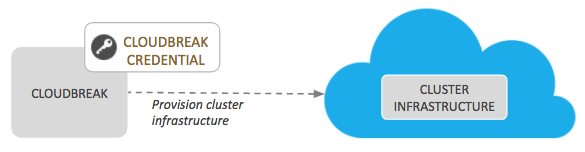
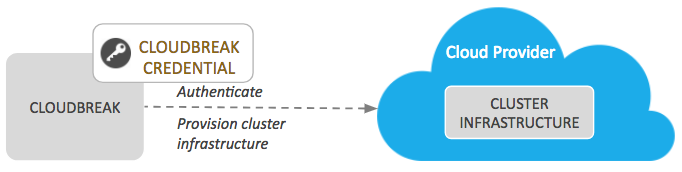
Various changes

diff --git a/docs/architecture.md b/docs/architecture.md
@@ -18,26 +18,38 @@
 
 ### Cloudbreak Application Architecture 
 
-The Cloudbreak application is a web application that communicates with the cloud provider account to create cloud resources on your behalf. Once the cloud resources are in place, Cloudbreak uses Apache Ambari to deploy and configure the cluster on cloud VMs. Once your cluster is deployed, you can use Cloudbreak to monitor and manage the cluster. 
+The Cloudbreak application is a web application which simplifies HDP cluster provisioning in the cloud. Based on your input, Cloudbreak provisions all required cloud infrastructure and then provisions an HDP cluster on your behalf within your cloud provider account.   
 
-<a href="../images/arch-app.png" target="_blank" title="click to enlarge"><img src="../images/arch-app.png" width="500" title="Cloudbreak architecture"></a> 
+<a href="../images/arch.png" target="_blank" title="click to enlarge"><img src="../images/arch.png" width="550" title="Cloudbreak architecture"></a> 
 
 Cloudbreak application is built on the foundation of cloud provider APIs and Apache Ambari:
-
-* Cloudbreak uses **Apache Ambari** to provision, manage, and monitor HDP clusters. 
-
-    Ambari **blueprints** are a declarative definition of a cluster. With a blueprint, you can specify stack, component layout, and configurations to materialize an HDP cluster instance via Ambari REST API, without having to use the Ambari cluster install wizard. 
     
-* Cloudbreak uses **cloud provider APIs** to create cloud resources required for the HDP clusters. 
+* Cloudbreak uses **cloud provider APIs** to communicate with the cloud providers. 
 
-    In order to authenticate with the cloud provider, you must create a [Cloudbreak credential](#cloudbreak-credential) for that provider. Next, you can use the create a cluster wizard in the Cloudbreak web UI (or its equivalent in the CLI) to define cloud resources which will be created for your cluster (networks, security groups, VMs and storage, and so on).  
+* Cloudbreak uses the **Cloudbreak credential** to authenticate with your cloud provider account and provision cloud resources required for the HDP clusters. 
     
+* Cloudbreak uses Apache Ambari and **Ambari blueprints** to provision, manage, and monitor HDP clusters. Ambari blueprints are a declarative definition of a cluster. With a blueprint, you can specify stack, component layout, and configurations to materialize an HDP cluster instance via Ambari REST API, without having to use the Ambari cluster install wizard.     
+    
+
+
+#### Cloudbreak Credential
+
+After launching Cloudbreak, you must create a Cloudbreak credential for each cloud provider on which you would like to provision clusters. Only after you have completed that step you can start creating clusters. 
+
+Cloudbreak credential allows Cloudbreak to authenticate with the cloud provider and create resources on your behalf. The authentication process varies depending on the cloud provider, but is typically done via assigning a specific IAM role to Cloudbreak which allows Cloudbreak to perform certain actions within your cloud provider account. To learn more, refer to [Identity Management](security.md#identity-management).  
+
+
+<a href="../images/arch-cred.png" target="_blank" title="click to enlarge"><img src="../images/arch-cred.png" width="500" title="How Cb uses Cloudbreak Credential"></a> 
+
+**Related Links**  
+[Identity Management](security.md#identity-management)  
+
 
 #### Ambari Blueprints
 
-**Ambari blueprints** are a declarative definition of a cluster. With a blueprint, you can specify stack, component layout, and configurations to materialize an HDP cluster instance via Ambari REST API, without having to use the Ambari cluster install wizard.  
+Ambari blueprints are a declarative definition of a cluster. A blueprint allows you to specify stack, component layout, and configurations to materialize an HDP cluster instance via Ambari REST API, without having to use the Ambari cluster install wizard.  
 
-Ambari blueprints are specified in JSON format. After you provide the blueprint to Cloudbreak, the host groups in the JSON will be mapped to a set of instances when starting the cluster, and the specified services and components will be installed on the corresponding nodes.
+Ambari blueprints are specified in JSON format. After you provide the blueprint to Cloudbreak, the host groups in the JSON are mapped to a set of instances when starting the cluster, and the specified services and components are installed on the corresponding nodes.
 
 Cloudbreak includes a few default blueprints and allows you to upload your own blueprints.
 
@@ -46,16 +58,3 @@ Cloudbreak includes a few default blueprints and allows you to upload your own b
 **Related Links**  
 [Blueprints](security.md#identity-management)  
 [Apache documentation](https://cwiki.apache.org/confluence/display/AMBARI/Blueprints) (External)  
-
-
-#### Cloudbreak Credential
-
-**Cloudbreak credential** allows Cloudbreak to authenticate with the cloud provider and create resources on your behalf. This is typically done via assigning a specific IAM role to Cloudbreak which allows Cloudbreak to perform certain actions within your cloud provider account.
-
-After launching Cloudbreak, you must create a Cloudbreak credential. Only after you have completed that step you can start creating clusters. 
-
-<a href="../images/arch-cred.png" target="_blank" title="click to enlarge"><img src="../images/arch-cred.png" width="500" title="How Cb uses Cloudbreak Credential"></a> 
-
-**Related Links**  
-[Identity Management](security.md#identity-management)  
-

diff --git a/docs/blueprints.md b/docs/blueprints.md
@@ -1,8 +1,8 @@
 ## Blueprints
 
-**Ambari blueprints** are your declarative definition of a Hadoop cluster, defining the host groups and which components to install on which host group. Ambari uses them as a base for your clusters. 
+**Ambari blueprints** are your declarative definition of your HDP cluster, defining the host groups and which components to install on which host group. Ambari uses them as a base for your clusters. 
 
-You have three options concerning using blueprints with Cloudbreak:
+You have two options concerning using blueprints with Cloudbreak:
 
 * Use one of the pre-defined blueprints.    
 * Add your custom blueprint by uploading a JSON file or pasting the JSON text. 
@@ -31,25 +31,17 @@ Platform Version: **HDP 2.6**
 | BI | <span><i class="fa fa-warning" style="color: orange"></i> Druid 0.9.2</span> | Technical preview of Druid. | HDFS, YARN, MapReduce2, Tez, Druid, Sqoop, ZooKeeper, Ambari Metrics | 
 
 
-
-<div class="note">
-    <p class="first admonition-title">Choosing Your Configuration</p>
-    <p class="last">
-When creating a cluster, you can choose a more stable cluster configuration for a predicable experience.
-Alternatively, you can try the latest capabilities by choosing a cluster configuration
-that is much more experimental. The following configuration classification applies:
+The following configuration classification applies:
 <ul>
 <li><i class="fa fa-check" style="color: green"></i> Stable configurations are the best choice if you want to avoid issues and other problems with launching and using clusters.</li>
 <li><i class="fa fa-warning" style="color: orange"></i> If you want to use a Technical Preview version of a component in a release of HDP, use these configurations.</li>
 <li><i class="fa fa-warning" style="color: red"></i> These are the most cutting edge of the configurations, including Technical Preview components in a Technical Preview HDP release.</li>
 </ul>
-</p>
-</div> 
 
 
-### Add Custom Blueprint
+### Use Custom Blueprint
 
-This option allows you to save your custom blueprints. For correct blueprint layout and other useful information about Ambari blueprints, refer to the [Ambari cwiki](https://cwiki.apache.org/confluence/display/AMBARI/Blueprints) page.
+This option allows you to create and save your custom blueprints. For correct blueprint layout and other useful information about Ambari blueprints, refer to the [Ambari cwiki](https://cwiki.apache.org/confluence/display/AMBARI/Blueprints) page.
 
 <div class="note">
     <p class="first admonition-title">Supported Ambari and HDP Versions</p>

diff --git a/docs/tags.md b/docs/tags.md
@@ -1,8 +1,6 @@
 ## Resource Tagging
 
-When you manually create resources (such as VMs) in the cloud, you have an option to add custom tags that help you track these resources. Likewise, when creating clusters, you can instruct Cloudbreak to tag the cloud resources that it creates on your behalf.
-
-The tags added during cluster creation will be displayed on your cloud account, allowing you to track your resources. 
+When you manually create resources in the cloud, you have an option to add custom tags that help you track these resources. Likewise, when creating clusters, you can instruct Cloudbreak to tag the cloud resources that it creates on your behalf. The tags added during cluster creation are displayed in your cloud account on the resources that Cloudbreak provisioned for your clusters. 
 
 You can use tags to categorize your cloud resources by purpose, owner, and so on. Tags come in especially handy when you are using a corporate AWS account and you want to quickly identify which resources belong to your cluster(s). In fact, your corporate cloud account admin may require you to tag all the resources that you create, in particular resources, such as VMs, which incur charges.
 
@@ -13,7 +11,7 @@ You can tag the cloud resources used for a cluster by providing custom tag names
 
 <a href="../images/cb-tags.png" target="_blank" title="click to enlarge"><img src="../images/cb-tags.png" width="650" title="Cloudbreak web UI"></a> 
 
-It is not possible to add tags after your cluster has been created.  
+It is not possible to add tags via Cloudbreak after your cluster has been created.  
 
 [comment]: <> (Commenting out the content which does not apply but we may want to add it in the future.)
 [comment]: <> (When you clone your cluster, all tags associated with the source cluster will be added to the template of the clone.)  

diff --git a/docs/recipes.md b/docs/recipes.md
@@ -28,7 +28,7 @@ proxy=http://10.0.0.133:3128
 ENDOF
 ```
 
-### Adding Recipes
+### Add Recipes
 
 To add a recipe, perform these steps.
 
@@ -57,7 +57,7 @@ To add a recipe, perform these steps.
 
 
 
-### Deleting Recipes
+### Delete Recipes
 
 You can delete previously added items by selecting and item and using the **delete** option. 
 
